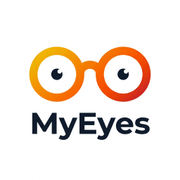
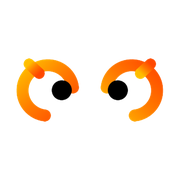
seo: configure comprehensive metadata and JSON-LD structured data for Google Search

Changed region(s): [[0.0833, 0.25, 0.9167, 0.7778]]

diff --git a/public/sw.js b/public/sw.js
@@ -1,1 +1,1 @@
-if(!self.define){let e,s={};const a=(a,c)=>(a=new URL(a+".js",c).href,s[a]||new Promise(s=>{if("document"in self){const e=document.createElement("script");e.src=a,e.onload=s,document.head.appendChild(e)}else e=a,importScripts(a),s()}).then(()=>{let e=s[a];if(!e)throw new Error(`Module ${a} didn’t register its module`);return e}));self.define=(c,i)=>{const n=e||("document"in self?document.currentScript.src:"")||location.href;if(s[n])return;let t={};const r=e=>a(e,n),d={module:{uri:n},exports:t,require:r};s[n]=Promise.all(c.map(e=>d[e]||r(e))).then(e=>(i(...e),t))}}define(["./workbox-3b27f4ee"],function(e){"use strict";importScripts("/worker-34d066ae36cc3cc5.js"),self.skipWaiting(),e.clientsClaim(),e.precacheAndRoute([{url:"/AvatarWearables_TX.png",revision:"cd3b00414a02829ece6f81663f446e57"},{url:"/_next/static/Rap6HnRCZfuItDRzKSg-V/_buildManifest.js",revision:"05f266cd59c5ce23b13585a9d20ca284"},{url:"/_next/static/Rap6HnRCZfuItDRzKSg-V/_ssgManifest.js",revision:"b6652df95db52feb4daf4eca35380933"},{url:"/_next/static/chunks/1027-26d831c4905bab63.js",revision:"26d831c4905bab63"},{url:"/_next/static/chunks/1365-bd25b0698c96e10e.js",revision:"bd25b0698c96e10e"},{url:"/_next/static/chunks/1646.a93085a0445ba909.js",revision:"a93085a0445ba909"},{url:"/_next/static/chunks/1838-75d19c2e1244cc70.js",revision:"75d19c2e1244cc70"},{url:"/_next/static/chunks/2091-22714e09bc195598.js",revision:"22714e09bc195598"},{url:"/_next/static/chunks/2432-278a7180d3c35ff0.js",revision:"278a7180d3c35ff0"},{url:"/_next/static/chunks/2619-04bc32f026a0d946.js",revision:"04bc32f026a0d946"},{url:"/_next/static/chunks/4313-f6cccfb3947ad276.js",revision:"f6cccfb3947ad276"},{url:"/_next/static/chunks/4696-ef7297d57b0f6da4.js",revision:"ef7297d57b0f6da4"},{url:"/_next/static/chunks/4808.c87c9e0913e50ecc.js",revision:"c87c9e0913e50ecc"},{url:"/_next/static/chunks/4833.95900049b1b05343.js",revision:"95900049b1b05343"},{url:"/_next/static/chunks/4bd1b696-100b9d70ed4e49c1.js",revision:"100b9d70ed4e49c1"},{url:"/_next/static/chunks/5-b1a9c4bfceedd1ad.js",revision:"b1a9c4bfceedd1ad"},{url:"/_next/static/chunks/5139.e4ff9cc3669129ed.js",revision:"e4ff9cc3669129ed"},{url:"/_next/static/chunks/5140-0b723661fe257376.js",revision:"0b723661fe257376"},{url:"/_next/static/chunks/5239-617cb46316b9ba93.js",revision:"617cb46316b9ba93"},{url:"/_next/static/chunks/5999-c6ac20a7a7809c2d.js",revision:"c6ac20a7a7809c2d"},{url:"/_next/static/chunks/6116.e398e4a0d339a057.js",revision:"e398e4a0d339a057"},{url:"/_next/static/chunks/6176.8bd055e9bd9fec94.js",revision:"8bd055e9bd9fec94"},{url:"/_next/static/chunks/6849-a8bd9f6c50d6c42c.js",revision:"a8bd9f6c50d6c42c"},{url:"/_next/static/chunks/8116-37377dbe3c3e37f6.js",revision:"37377dbe3c3e37f6"},{url:"/_next/static/chunks/824-01f796ce9ad3bee9.js",revision:"01f796ce9ad3bee9"},{url:"/_next/static/chunks/8348.1d99ab41d9ed5ebe.js",revision:"1d99ab41d9ed5ebe"},{url:"/_next/static/chunks/8801-3ff4afa45b160f8b.js",revision:"3ff4afa45b160f8b"},{url:"/_next/static/chunks/8844-f2d77b416d6218e5.js",revision:"f2d77b416d6218e5"},{url:"/_next/static/chunks/9013.7440926aef03db6a.js",revision:"7440926aef03db6a"},{url:"/_next/static/chunks/9370-5c0beb381e3593c1.js",revision:"5c0beb381e3593c1"},{url:"/_next/static/chunks/app/_not-found/page-801f34a43ce53546.js",revision:"801f34a43ce53546"},{url:"/_next/static/chunks/app/admin/base-prices/page-a05f35f862ee928a.js",revision:"a05f35f862ee928a"},{url:"/_next/static/chunks/app/admin/customers/page-7d4dcf4ebf8a1eef.js",revision:"7d4dcf4ebf8a1eef"},{url:"/_next/static/chunks/app/admin/inventory/page-e58cbc249af1e797.js",revision:"e58cbc249af1e797"},{url:"/_next/static/chunks/app/admin/layout-3e9d9176856b40b8.js",revision:"3e9d9176856b40b8"},{url:"/_next/static/chunks/app/admin/leads/page-2e9eaf0d9d5fcd6d.js",revision:"2e9eaf0d9d5fcd6d"},{url:"/_next/static/chunks/app/admin/lens-pricing/page-68f7b7db59b55133.js",revision:"68f7b7db59b55133"},{url:"/_next/static/chunks/app/admin/loading-31604df608d2b81d.js",revision:"31604df608d2b81d"},{url:"/_next/static/chunks/app/admin/orders/%5Bid%5D/page-93299eaf291bda78.js",revision:"93299eaf291bda78"},{url:"/_next/static/chunks/app/admin/orders/page-dc4b202e12cf11a1.js",revision:"dc4b202e12cf11a1"},{url:"/_next/static/chunks/app/admin/page-6308fac86581786a.js",revision:"6308fac86581786a"},{url:"/_next/static/chunks/app/admin/payments/page-69b2ed26ddfce0dd.js",revision:"69b2ed26ddfce0dd"},{url:"/_next/static/chunks/app/admin/presbyopia-pricing/page-74662637fb0c1949.js",revision:"74662637fb0c1949"},{url:"/_next/static/chunks/app/admin/products/page-03cd61a09516e6e4.js",revision:"03cd61a09516e6e4"},{url:"/_next/static/chunks/app/api/admin/base-prices/route-801f34a43ce53546.js",revision:"801f34a43ce53546"},{url:"/_next/static/chunks/app/api/admin/images/delete/route-801f34a43ce53546.js",revision:"801f34a43ce53546"},{url:"/_next/static/chunks/app/api/admin/lens-prices/route-801f34a43ce53546.js",revision:"801f34a43ce53546"},{url:"/_next/static/chunks/app/api/admin/orders/%5Bid%5D/pdf/route-801f34a43ce53546.js",revision:"801f34a43ce53546"},{url:"/_next/static/chunks/app/api/admin/orders/%5Bid%5D/receipt/route-801f34a43ce53546.js",revision:"801f34a43ce53546"},{url:"/_next/static/chunks/app/api/admin/orders/%5Bid%5D/route-801f34a43ce53546.js",revision:"801f34a43ce53546"},{url:"/_next/static/chunks/app/api/admin/orders/route-801f34a43ce53546.js",revision:"801f34a43ce53546"},{url:"/_next/static/chunks/app/api/admin/payments/route-801f34a43ce53546.js",revision:"801f34a43ce53546"},{url:"/_next/static/chunks/app/api/admin/payments/verify/route-801f34a43ce53546.js",revision:"801f34a43ce53546"},{url:"/_next/static/chunks/app/api/admin/presbyopia-prices/route-801f34a43ce53546.js",revision:"801f34a43ce53546"},{url:"/_next/static/chunks/app/api/admin/products/%5Bid%5D/route-801f34a43ce53546.js",revision:"801f34a43ce53546"},{url:"/_next/static/chunks/app/api/admin/products/route-801f34a43ce53546.js",revision:"801f34a43ce53546"},{url:"/_next/static/chunks/app/api/base-prices/route-801f34a43ce53546.js",revision:"801f34a43ce53546"},{url:"/_next/static/chunks/app/api/checkout/route-801f34a43ce53546.js",revision:"801f34a43ce53546"},{url:"/_next/static/chunks/app/api/leads/route-801f34a43ce53546.js",revision:"801f34a43ce53546"},{url:"/_next/static/chunks/app/api/orders/%5Bid%5D/resubmit-proof/route-801f34a43ce53546.js",revision:"801f34a43ce53546"},{url:"/_next/static/chunks/app/api/orders/%5Bid%5D/route-801f34a43ce53546.js",revision:"801f34a43ce53546"},{url:"/_next/static/chunks/app/api/orders/route-801f34a43ce53546.js",revision:"801f34a43ce53546"},{url:"/_next/static/chunks/app/api/payments/check-tid/route-801f34a43ce53546.js",revision:"801f34a43ce53546"},{url:"/_next/static/chunks/app/api/payments/ocr-scan/route-801f34a43ce53546.js",revision:"801f34a43ce53546"},{url:"/_next/static/chunks/app/api/quiz/results/route-801f34a43ce53546.js",revision:"801f34a43ce53546"},{url:"/_next/static/chunks/app/api/upload/route-801f34a43ce53546.js",revision:"801f34a43ce53546"},{url:"/_next/static/chunks/app/checkout/loading-31604df608d2b81d.js",revision:"31604df608d2b81d"},{url:"/_next/static/chunks/app/checkout/page-a88a70b0990a8552.js",revision:"a88a70b0990a8552"},{url:"/_next/static/chunks/app/checkout/success/page-30a2f51da7de122f.js",revision:"30a2f51da7de122f"},{url:"/_next/static/chunks/app/collections/loading-31604df608d2b81d.js",revision:"31604df608d2b81d"},{url:"/_next/static/chunks/app/collections/page-8c195b94282ebc94.js",revision:"8c195b94282ebc94"},{url:"/_next/static/chunks/app/error-6c19ba7dafbc287d.js",revision:"6c19ba7dafbc287d"},{url:"/_next/static/chunks/app/eyeglasses/%5Bslug%5D/loading-31604df608d2b81d.js",revision:"31604df608d2b81d"},{url:"/_next/static/chunks/app/eyeglasses/%5Bslug%5D/page-038351b4d18a8b58.js",revision:"038351b4d18a8b58"},{url:"/_next/static/chunks/app/eyeglasses/loading-31604df608d2b81d.js",revision:"31604df608d2b81d"},{url:"/_next/static/chunks/app/eyeglasses/page-0c8f788eef78e5d7.js",revision:"0c8f788eef78e5d7"},{url:"/_next/static/chunks/app/kids/loading-31604df608d2b81d.js",revision:"31604df608d2b81d"},{url:"/_next/static/chunks/app/kids/page-d8695384fd812a56.js",revision:"d8695384fd812a56"},{url:"/_next/static/chunks/app/layout-df1a56a343365118.js",revision:"df1a56a343365118"},{url:"/_next/static/chunks/app/lens-pricing/page-08993e8e91f68d4a.js",revision:"08993e8e91f68d4a"},{url:"/_next/static/chunks/app/loading-31604df608d2b81d.js",revision:"31604df608d2b81d"},{url:"/_next/static/chunks/app/men/loading-31604df608d2b81d.js",revision:"31604df608d2b81d"},{url:"/_next/static/chunks/app/men/page-7b62d886ffc76800.js",revision:"7b62d886ffc76800"},{url:"/_next/static/chunks/app/not-found-6308fac86581786a.js",revision:"6308fac86581786a"},{url:"/_next/static/chunks/app/order-success/%5BorderNumber%5D/page-e416535ba0bdcc07.js",revision:"e416535ba0bdcc07"},{url:"/_next/static/chunks/app/orders/%5BorderNumber%5D/page-e416535ba0bdcc07.js",revision:"e416535ba0bdcc07"},{url:"/_next/static/chunks/app/page-c8a0b9d431135da6.js",revision:"c8a0b9d431135da6"},{url:"/_next/static/chunks/app/pricing/page-7bf5191abeffeee5.js",revision:"7bf5191abeffeee5"},{url:"/_next/static/chunks/app/privacy/page-6308fac86581786a.js",revision:"6308fac86581786a"},{url:"/_next/static/chunks/app/products/%5Bslug%5D/loading-31604df608d2b81d.js",revision:"31604df608d2b81d"},{url:"/_next/static/chunks/app/products/%5Bslug%5D/page-42a4b34c7c36d767.js",revision:"42a4b34c7c36d767"},{url:"/_next/static/chunks/app/products/page-801f34a43ce53546.js",revision:"801f34a43ce53546"},{url:"/_next/static/chunks/app/quiz/layout-801f34a43ce53546.js",revision:"801f34a43ce53546"},{url:"/_next/static/chunks/app/quiz/loading-31604df608d2b81d.js",revision:"31604df608d2b81d"},{url:"/_next/static/chunks/app/quiz/page-8e16432e73b37ba5.js",revision:"8e16432e73b37ba5"},{url:"/_next/static/chunks/app/quiz/results/page-2089bbaf45da5adb.js",revision:"2089bbaf45da5adb"},{url:"/_next/static/chunks/app/sunglasses/loading-31604df608d2b81d.js",revision:"31604df608d2b81d"},{url:"/_next/static/chunks/app/sunglasses/page-1fbfcf24c418495b.js",revision:"1fbfcf24c418495b"},{url:"/_next/static/chunks/app/terms/page-6308fac86581786a.js",revision:"6308fac86581786a"},{url:"/_next/static/chunks/app/women/loading-31604df608d2b81d.js",revision:"31604df608d2b81d"},{url:"/_next/static/chunks/app/women/page-6d4deb8c31b42937.js",revision:"6d4deb8c31b42937"},{url:"/_next/static/chunks/b536a0f1.c15d413a248f1670.js",revision:"c15d413a248f1670"},{url:"/_next/static/chunks/b79b7286.517d941058d86c1b.js",revision:"517d941058d86c1b"},{url:"/_next/static/chunks/bd904a5c.04a04e0204c374ff.js",revision:"04a04e0204c374ff"},{url:"/_next/static/chunks/framework-a32a2a465584c0bc.js",revision:"a32a2a465584c0bc"},{url:"/_next/static/chunks/main-app-03e1e49d6826bd7d.js",revision:"03e1e49d6826bd7d"},{url:"/_next/static/chunks/main-dc7bdda68cf744cc.js",revision:"dc7bdda68cf744cc"},{url:"/_next/static/chunks/pages/_app-e8b861c87f6f033c.js",revision:"e8b861c87f6f033c"},{url:"/_next/static/chunks/pages/_error-c8f84f7bd11d43d4.js",revision:"c8f84f7bd11d43d4"},{url:"/_next/static/chunks/polyfills-42372ed130431b0a.js",revision:"846118c33b2c0e922d7b3a7676f81f6f"},{url:"/_next/static/chunks/webpack-911289ff84448f59.js",revision:"911289ff84448f59"},{url:"/_next/static/css/081a0afca5a9bd20.css",revision:"081a0afca5a9bd20"},{url:"/_next/static/css/9f43c719b60b0fd2.css",revision:"9f43c719b60b0fd2"},{url:"/_next/static/media/19cfc7226ec3afaa-s.woff2",revision:"9dda5cfc9a46f256d0e131bb535e46f8"},{url:"/_next/static/media/21350d82a1f187e9-s.woff2",revision:"4e2553027f1d60eff32898367dd4d541"},{url:"/_next/static/media/8e9860b6e62d6359-s.woff2",revision:"01ba6c2a184b8cba08b0d57167664d75"},{url:"/_next/static/media/ba9851c3c22cd980-s.woff2",revision:"9e494903d6b0ffec1a1e14d34427d44d"},{url:"/_next/static/media/c5fe6dc8356a8c31-s.woff2",revision:"027a89e9ab733a145db70f09b8a18b42"},{url:"/_next/static/media/df0a9ae256c0569c-s.woff2",revision:"d54db44de5ccb18886ece2fda72bdfe0"},{url:"/_next/static/media/e4af272ccee01ff0-s.p.woff2",revision:"65850a373e258f1c897a2b3d75eb74de"},{url:"/apple-touch-icon.png",revision:"f68fd163a4b465606bf358accbf4aff7"},{url:"/bank-qr.jpg",revision:"d914c9afae3ced2fd17489462e0572e7"},{url:"/file.svg",revision:"d09f95206c3fa0bb9bd9fefabfd0ea71"},{url:"/globe.svg",revision:"2aaafa6a49b6563925fe440891e32717"},{url:"/images/logo.png",revision:"ac261b052e72bfc66ce6f5779f759c90"},{url:"/images/logo.svg",revision:"ae96372307dc6d4b2106b8742a678d59"},{url:"/jazzcash-qr.jpg",revision:"f6d2dc221eea9a17c9a9a3bcb6ba9230"},{url:"/logo.png",revision:"ac261b052e72bfc66ce6f5779f759c90"},{url:"/logo.svg",revision:"ae96372307dc6d4b2106b8742a678d59"},{url:"/manifest.json",revision:"b4f1b3f3372a82fdd057803771b0c62c"},{url:"/models/eyewear.glb",revision:"c7e5ef3f109f26754f2244f37835ef14"},{url:"/myeyes.apk",revision:"4ff586118d1e85684e81c8f0fdbac40b"},{url:"/next.svg",revision:"8e061864f388b47f33a1c3780831193e"},{url:"/placeholder-frame.png",revision:"4a3caea04dd513ef78cf750d6ff324bc"},{url:"/pwa-192x192.png",revision:"f7ed7bfaacbd66bff801d32237379db2"},{url:"/pwa-512x512.png",revision:"60cc0599571ff95b98108c55790975d0"},{url:"/vercel.svg",revision:"c0af2f507b369b085b35ef4bbe3bcf1e"},{url:"/window.svg",revision:"a2760511c65806022ad20adf74370ff3"},{url:"/worker-34d066ae36cc3cc5.js",revision:"a191690dd42983320342803c74f51747"}],{ignoreURLParametersMatching:[/^utm_/,/^fbclid$/]}),e.cleanupOutdatedCaches(),e.registerRoute("/",new e.NetworkFirst({cacheName:"start-url",plugins:[{cacheWillUpdate:async({response:e})=>e&&"opaqueredirect"===e.type?new Response(e.body,{status:200,statusText:"OK",headers:e.headers}):e}]}),"GET"),e.registerRoute(/^\/api\/.*/,new e.NetworkOnly,"GET"),e.registerRoute(/^https:\/\/res\.cloudinary\.com\/.*/,new e.StaleWhileRevalidate({cacheName:"myeyes-cloudinary-images",plugins:[new e.ExpirationPlugin({maxEntries:200,maxAgeSeconds:604800}),new e.CacheableResponsePlugin({statuses:[0,200]})]}),"GET")});
+if(!self.define){let e,s={};const a=(a,c)=>(a=new URL(a+".js",c).href,s[a]||new Promise(s=>{if("document"in self){const e=document.createElement("script");e.src=a,e.onload=s,document.head.appendChild(e)}else e=a,importScripts(a),s()}).then(()=>{let e=s[a];if(!e)throw new Error(`Module ${a} didn’t register its module`);return e}));self.define=(c,i)=>{const n=e||("document"in self?document.currentScript.src:"")||location.href;if(s[n])return;let t={};const r=e=>a(e,n),d={module:{uri:n},exports:t,require:r};s[n]=Promise.all(c.map(e=>d[e]||r(e))).then(e=>(i(...e),t))}}define(["./workbox-3b27f4ee"],function(e){"use strict";importScripts("/worker-34d066ae36cc3cc5.js"),self.skipWaiting(),e.clientsClaim(),e.precacheAndRoute([{url:"/AvatarWearables_TX.png",revision:"cd3b00414a02829ece6f81663f446e57"},{url:"/_next/static/chunks/1027-26d831c4905bab63.js",revision:"26d831c4905bab63"},{url:"/_next/static/chunks/1365-bd25b0698c96e10e.js",revision:"bd25b0698c96e10e"},{url:"/_next/static/chunks/1646.a93085a0445ba909.js",revision:"a93085a0445ba909"},{url:"/_next/static/chunks/1838-75d19c2e1244cc70.js",revision:"75d19c2e1244cc70"},{url:"/_next/static/chunks/2091-22714e09bc195598.js",revision:"22714e09bc195598"},{url:"/_next/static/chunks/2432-278a7180d3c35ff0.js",revision:"278a7180d3c35ff0"},{url:"/_next/static/chunks/2619-04bc32f026a0d946.js",revision:"04bc32f026a0d946"},{url:"/_next/static/chunks/4313-f6cccfb3947ad276.js",revision:"f6cccfb3947ad276"},{url:"/_next/static/chunks/4696-ef7297d57b0f6da4.js",revision:"ef7297d57b0f6da4"},{url:"/_next/static/chunks/4808.c87c9e0913e50ecc.js",revision:"c87c9e0913e50ecc"},{url:"/_next/static/chunks/4833.95900049b1b05343.js",revision:"95900049b1b05343"},{url:"/_next/static/chunks/4bd1b696-100b9d70ed4e49c1.js",revision:"100b9d70ed4e49c1"},{url:"/_next/static/chunks/5-b1a9c4bfceedd1ad.js",revision:"b1a9c4bfceedd1ad"},{url:"/_next/static/chunks/5139.e4ff9cc3669129ed.js",revision:"e4ff9cc3669129ed"},{url:"/_next/static/chunks/5140-0b723661fe257376.js",revision:"0b723661fe257376"},{url:"/_next/static/chunks/5239-617cb46316b9ba93.js",revision:"617cb46316b9ba93"},{url:"/_next/static/chunks/5999-c6ac20a7a7809c2d.js",revision:"c6ac20a7a7809c2d"},{url:"/_next/static/chunks/6116.e398e4a0d339a057.js",revision:"e398e4a0d339a057"},{url:"/_next/static/chunks/6176.8bd055e9bd9fec94.js",revision:"8bd055e9bd9fec94"},{url:"/_next/static/chunks/6849-a8bd9f6c50d6c42c.js",revision:"a8bd9f6c50d6c42c"},{url:"/_next/static/chunks/8116-37377dbe3c3e37f6.js",revision:"37377dbe3c3e37f6"},{url:"/_next/static/chunks/824-01f796ce9ad3bee9.js",revision:"01f796ce9ad3bee9"},{url:"/_next/static/chunks/8348.1d99ab41d9ed5ebe.js",revision:"1d99ab41d9ed5ebe"},{url:"/_next/static/chunks/8801-3ff4afa45b160f8b.js",revision:"3ff4afa45b160f8b"},{url:"/_next/static/chunks/8844-f2d77b416d6218e5.js",revision:"f2d77b416d6218e5"},{url:"/_next/static/chunks/9013.7440926aef03db6a.js",revision:"7440926aef03db6a"},{url:"/_next/static/chunks/9370-5c0beb381e3593c1.js",revision:"5c0beb381e3593c1"},{url:"/_next/static/chunks/app/_not-found/page-801f34a43ce53546.js",revision:"801f34a43ce53546"},{url:"/_next/static/chunks/app/admin/base-prices/page-a05f35f862ee928a.js",revision:"a05f35f862ee928a"},{url:"/_next/static/chunks/app/admin/customers/page-7d4dcf4ebf8a1eef.js",revision:"7d4dcf4ebf8a1eef"},{url:"/_next/static/chunks/app/admin/inventory/page-e58cbc249af1e797.js",revision:"e58cbc249af1e797"},{url:"/_next/static/chunks/app/admin/layout-3e9d9176856b40b8.js",revision:"3e9d9176856b40b8"},{url:"/_next/static/chunks/app/admin/leads/page-2e9eaf0d9d5fcd6d.js",revision:"2e9eaf0d9d5fcd6d"},{url:"/_next/static/chunks/app/admin/lens-pricing/page-68f7b7db59b55133.js",revision:"68f7b7db59b55133"},{url:"/_next/static/chunks/app/admin/loading-31604df608d2b81d.js",revision:"31604df608d2b81d"},{url:"/_next/static/chunks/app/admin/orders/%5Bid%5D/page-93299eaf291bda78.js",revision:"93299eaf291bda78"},{url:"/_next/static/chunks/app/admin/orders/page-dc4b202e12cf11a1.js",revision:"dc4b202e12cf11a1"},{url:"/_next/static/chunks/app/admin/page-6308fac86581786a.js",revision:"6308fac86581786a"},{url:"/_next/static/chunks/app/admin/payments/page-69b2ed26ddfce0dd.js",revision:"69b2ed26ddfce0dd"},{url:"/_next/static/chunks/app/admin/presbyopia-pricing/page-74662637fb0c1949.js",revision:"74662637fb0c1949"},{url:"/_next/static/chunks/app/admin/products/page-03cd61a09516e6e4.js",revision:"03cd61a09516e6e4"},{url:"/_next/static/chunks/app/api/admin/base-prices/route-801f34a43ce53546.js",revision:"801f34a43ce53546"},{url:"/_next/static/chunks/app/api/admin/images/delete/route-801f34a43ce53546.js",revision:"801f34a43ce53546"},{url:"/_next/static/chunks/app/api/admin/lens-prices/route-801f34a43ce53546.js",revision:"801f34a43ce53546"},{url:"/_next/static/chunks/app/api/admin/orders/%5Bid%5D/pdf/route-801f34a43ce53546.js",revision:"801f34a43ce53546"},{url:"/_next/static/chunks/app/api/admin/orders/%5Bid%5D/receipt/route-801f34a43ce53546.js",revision:"801f34a43ce53546"},{url:"/_next/static/chunks/app/api/admin/orders/%5Bid%5D/route-801f34a43ce53546.js",revision:"801f34a43ce53546"},{url:"/_next/static/chunks/app/api/admin/orders/route-801f34a43ce53546.js",revision:"801f34a43ce53546"},{url:"/_next/static/chunks/app/api/admin/payments/route-801f34a43ce53546.js",revision:"801f34a43ce53546"},{url:"/_next/static/chunks/app/api/admin/payments/verify/route-801f34a43ce53546.js",revision:"801f34a43ce53546"},{url:"/_next/static/chunks/app/api/admin/presbyopia-prices/route-801f34a43ce53546.js",revision:"801f34a43ce53546"},{url:"/_next/static/chunks/app/api/admin/products/%5Bid%5D/route-801f34a43ce53546.js",revision:"801f34a43ce53546"},{url:"/_next/static/chunks/app/api/admin/products/route-801f34a43ce53546.js",revision:"801f34a43ce53546"},{url:"/_next/static/chunks/app/api/base-prices/route-801f34a43ce53546.js",revision:"801f34a43ce53546"},{url:"/_next/static/chunks/app/api/checkout/route-801f34a43ce53546.js",revision:"801f34a43ce53546"},{url:"/_next/static/chunks/app/api/leads/route-801f34a43ce53546.js",revision:"801f34a43ce53546"},{url:"/_next/static/chunks/app/api/orders/%5Bid%5D/resubmit-proof/route-801f34a43ce53546.js",revision:"801f34a43ce53546"},{url:"/_next/static/chunks/app/api/orders/%5Bid%5D/route-801f34a43ce53546.js",revision:"801f34a43ce53546"},{url:"/_next/static/chunks/app/api/orders/route-801f34a43ce53546.js",revision:"801f34a43ce53546"},{url:"/_next/static/chunks/app/api/payments/check-tid/route-801f34a43ce53546.js",revision:"801f34a43ce53546"},{url:"/_next/static/chunks/app/api/payments/ocr-scan/route-801f34a43ce53546.js",revision:"801f34a43ce53546"},{url:"/_next/static/chunks/app/api/quiz/results/route-801f34a43ce53546.js",revision:"801f34a43ce53546"},{url:"/_next/static/chunks/app/api/upload/route-801f34a43ce53546.js",revision:"801f34a43ce53546"},{url:"/_next/static/chunks/app/checkout/loading-31604df608d2b81d.js",revision:"31604df608d2b81d"},{url:"/_next/static/chunks/app/checkout/page-a88a70b0990a8552.js",revision:"a88a70b0990a8552"},{url:"/_next/static/chunks/app/checkout/success/page-30a2f51da7de122f.js",revision:"30a2f51da7de122f"},{url:"/_next/static/chunks/app/collections/loading-31604df608d2b81d.js",revision:"31604df608d2b81d"},{url:"/_next/static/chunks/app/collections/page-8c195b94282ebc94.js",revision:"8c195b94282ebc94"},{url:"/_next/static/chunks/app/error-6c19ba7dafbc287d.js",revision:"6c19ba7dafbc287d"},{url:"/_next/static/chunks/app/eyeglasses/%5Bslug%5D/loading-31604df608d2b81d.js",revision:"31604df608d2b81d"},{url:"/_next/static/chunks/app/eyeglasses/%5Bslug%5D/page-038351b4d18a8b58.js",revision:"038351b4d18a8b58"},{url:"/_next/static/chunks/app/eyeglasses/loading-31604df608d2b81d.js",revision:"31604df608d2b81d"},{url:"/_next/static/chunks/app/eyeglasses/page-0c8f788eef78e5d7.js",revision:"0c8f788eef78e5d7"},{url:"/_next/static/chunks/app/kids/loading-31604df608d2b81d.js",revision:"31604df608d2b81d"},{url:"/_next/static/chunks/app/kids/page-d8695384fd812a56.js",revision:"d8695384fd812a56"},{url:"/_next/static/chunks/app/layout-df1a56a343365118.js",revision:"df1a56a343365118"},{url:"/_next/static/chunks/app/lens-pricing/page-08993e8e91f68d4a.js",revision:"08993e8e91f68d4a"},{url:"/_next/static/chunks/app/loading-31604df608d2b81d.js",revision:"31604df608d2b81d"},{url:"/_next/static/chunks/app/men/loading-31604df608d2b81d.js",revision:"31604df608d2b81d"},{url:"/_next/static/chunks/app/men/page-7b62d886ffc76800.js",revision:"7b62d886ffc76800"},{url:"/_next/static/chunks/app/not-found-6308fac86581786a.js",revision:"6308fac86581786a"},{url:"/_next/static/chunks/app/order-success/%5BorderNumber%5D/page-e416535ba0bdcc07.js",revision:"e416535ba0bdcc07"},{url:"/_next/static/chunks/app/orders/%5BorderNumber%5D/page-e416535ba0bdcc07.js",revision:"e416535ba0bdcc07"},{url:"/_next/static/chunks/app/page-c8a0b9d431135da6.js",revision:"c8a0b9d431135da6"},{url:"/_next/static/chunks/app/pricing/page-7bf5191abeffeee5.js",revision:"7bf5191abeffeee5"},{url:"/_next/static/chunks/app/privacy/page-6308fac86581786a.js",revision:"6308fac86581786a"},{url:"/_next/static/chunks/app/products/%5Bslug%5D/loading-31604df608d2b81d.js",revision:"31604df608d2b81d"},{url:"/_next/static/chunks/app/products/%5Bslug%5D/page-42a4b34c7c36d767.js",revision:"42a4b34c7c36d767"},{url:"/_next/static/chunks/app/products/page-801f34a43ce53546.js",revision:"801f34a43ce53546"},{url:"/_next/static/chunks/app/quiz/layout-801f34a43ce53546.js",revision:"801f34a43ce53546"},{url:"/_next/static/chunks/app/quiz/loading-31604df608d2b81d.js",revision:"31604df608d2b81d"},{url:"/_next/static/chunks/app/quiz/page-8e16432e73b37ba5.js",revision:"8e16432e73b37ba5"},{url:"/_next/static/chunks/app/quiz/results/page-2089bbaf45da5adb.js",revision:"2089bbaf45da5adb"},{url:"/_next/static/chunks/app/sunglasses/loading-31604df608d2b81d.js",revision:"31604df608d2b81d"},{url:"/_next/static/chunks/app/sunglasses/page-1fbfcf24c418495b.js",revision:"1fbfcf24c418495b"},{url:"/_next/static/chunks/app/terms/page-6308fac86581786a.js",revision:"6308fac86581786a"},{url:"/_next/static/chunks/app/women/loading-31604df608d2b81d.js",revision:"31604df608d2b81d"},{url:"/_next/static/chunks/app/women/page-6d4deb8c31b42937.js",revision:"6d4deb8c31b42937"},{url:"/_next/static/chunks/b536a0f1.c15d413a248f1670.js",revision:"c15d413a248f1670"},{url:"/_next/static/chunks/b79b7286.517d941058d86c1b.js",revision:"517d941058d86c1b"},{url:"/_next/static/chunks/bd904a5c.04a04e0204c374ff.js",revision:"04a04e0204c374ff"},{url:"/_next/static/chunks/framework-a32a2a465584c0bc.js",revision:"a32a2a465584c0bc"},{url:"/_next/static/chunks/main-app-03e1e49d6826bd7d.js",revision:"03e1e49d6826bd7d"},{url:"/_next/static/chunks/main-dc7bdda68cf744cc.js",revision:"dc7bdda68cf744cc"},{url:"/_next/static/chunks/pages/_app-e8b861c87f6f033c.js",revision:"e8b861c87f6f033c"},{url:"/_next/static/chunks/pages/_error-c8f84f7bd11d43d4.js",revision:"c8f84f7bd11d43d4"},{url:"/_next/static/chunks/polyfills-42372ed130431b0a.js",revision:"846118c33b2c0e922d7b3a7676f81f6f"},{url:"/_next/static/chunks/webpack-911289ff84448f59.js",revision:"911289ff84448f59"},{url:"/_next/static/css/081a0afca5a9bd20.css",revision:"081a0afca5a9bd20"},{url:"/_next/static/css/9f43c719b60b0fd2.css",revision:"9f43c719b60b0fd2"},{url:"/_next/static/hl1rf5Q9aPNMpoPqUYJrc/_buildManifest.js",revision:"05f266cd59c5ce23b13585a9d20ca284"},{url:"/_next/static/hl1rf5Q9aPNMpoPqUYJrc/_ssgManifest.js",revision:"b6652df95db52feb4daf4eca35380933"},{url:"/_next/static/media/19cfc7226ec3afaa-s.woff2",revision:"9dda5cfc9a46f256d0e131bb535e46f8"},{url:"/_next/static/media/21350d82a1f187e9-s.woff2",revision:"4e2553027f1d60eff32898367dd4d541"},{url:"/_next/static/media/8e9860b6e62d6359-s.woff2",revision:"01ba6c2a184b8cba08b0d57167664d75"},{url:"/_next/static/media/ba9851c3c22cd980-s.woff2",revision:"9e494903d6b0ffec1a1e14d34427d44d"},{url:"/_next/static/media/c5fe6dc8356a8c31-s.woff2",revision:"027a89e9ab733a145db70f09b8a18b42"},{url:"/_next/static/media/df0a9ae256c0569c-s.woff2",revision:"d54db44de5ccb18886ece2fda72bdfe0"},{url:"/_next/static/media/e4af272ccee01ff0-s.p.woff2",revision:"65850a373e258f1c897a2b3d75eb74de"},{url:"/apple-touch-icon.png",revision:"3611b043a711fcb09d8601bea9751272"},{url:"/bank-qr.jpg",revision:"d914c9afae3ced2fd17489462e0572e7"},{url:"/favicon.ico",revision:"1812b68430d6dbb18e9c4bde27b075cf"},{url:"/file.svg",revision:"d09f95206c3fa0bb9bd9fefabfd0ea71"},{url:"/globe.svg",revision:"2aaafa6a49b6563925fe440891e32717"},{url:"/icon-192x192.png",revision:"c5e7641cff420e9b5d65adc4557a3360"},{url:"/icon-48x48.png",revision:"59f50161535f391f680320119329226b"},{url:"/icon-96x96.png",revision:"52f4db302d03bca64ae391fdc221e6e2"},{url:"/images/logo.png",revision:"ac261b052e72bfc66ce6f5779f759c90"},{url:"/images/logo.svg",revision:"ae96372307dc6d4b2106b8742a678d59"},{url:"/jazzcash-qr.jpg",revision:"f6d2dc221eea9a17c9a9a3bcb6ba9230"},{url:"/logo.png",revision:"ac261b052e72bfc66ce6f5779f759c90"},{url:"/logo.svg",revision:"ae96372307dc6d4b2106b8742a678d59"},{url:"/manifest.json",revision:"b4f1b3f3372a82fdd057803771b0c62c"},{url:"/models/eyewear.glb",revision:"c7e5ef3f109f26754f2244f37835ef14"},{url:"/myeyes.apk",revision:"4ff586118d1e85684e81c8f0fdbac40b"},{url:"/next.svg",revision:"8e061864f388b47f33a1c3780831193e"},{url:"/placeholder-frame.png",revision:"4a3caea04dd513ef78cf750d6ff324bc"},{url:"/pwa-192x192.png",revision:"c5e7641cff420e9b5d65adc4557a3360"},{url:"/pwa-512x512.png",revision:"4550822b769e5bc18e7382c79f7388f5"},{url:"/vercel.svg",revision:"c0af2f507b369b085b35ef4bbe3bcf1e"},{url:"/window.svg",revision:"a2760511c65806022ad20adf74370ff3"},{url:"/worker-34d066ae36cc3cc5.js",revision:"a191690dd42983320342803c74f51747"}],{ignoreURLParametersMatching:[/^utm_/,/^fbclid$/]}),e.cleanupOutdatedCaches(),e.registerRoute("/",new e.NetworkFirst({cacheName:"start-url",plugins:[{cacheWillUpdate:async({response:e})=>e&&"opaqueredirect"===e.type?new Response(e.body,{status:200,statusText:"OK",headers:e.headers}):e}]}),"GET"),e.registerRoute(/^\/api\/.*/,new e.NetworkOnly,"GET"),e.registerRoute(/^https:\/\/res\.cloudinary\.com\/.*/,new e.StaleWhileRevalidate({cacheName:"myeyes-cloudinary-images",plugins:[new e.ExpirationPlugin({maxEntries:200,maxAgeSeconds:604800}),new e.CacheableResponsePlugin({statuses:[0,200]})]}),"GET")});

diff --git a/src/app/layout.tsx b/src/app/layout.tsx
@@ -26,37 +26,95 @@ export const viewport: Viewport = {
 };
 
 export const metadata: Metadata = {
-  title: "My Eyes — Pakistan Prescription Based Eyewear Store",
+  metadataBase: new URL("https://www.myeyes.pk"),
+  title: {
+    default: "My Eyes — Pakistan's First Prescription Based Eyewear Store",
+    template: "%s | My Eyes Optical Studio",
+  },
   description:
-    "Order premium prescription eyeglasses & sunglasses online. Pakistan prescription based eyewear store with lab-precision fitting, delivering all across Pakistan.",
-  keywords: ["eyewear", "glasses", "optical", "sunglasses", "prescription lenses", "Pakistan", "online eyewear store", "My Eyes"],
-  // ---------------------------------------------------------------------------
-  // PWA Manifest & Icons
-  // ---------------------------------------------------------------------------
+    "Lab-precision prescription eyeglasses and sunglasses with custom SPH, CYL, and PD fitting delivered anywhere in Pakistan. Features live 3D try-on, 60-second style quiz, and transparent lens pricing.",
+  keywords: [
+    "eyewear Pakistan",
+    "prescription glasses online Pakistan",
+    "blue cut computer lenses",
+    "progressive lenses Pakistan",
+    "online optical store",
+    "frame style quiz",
+    "custom prescription sunglasses",
+  ],
+  alternates: {
+    canonical: "https://www.myeyes.pk",
+  },
   manifest: "/manifest.json",
   icons: {
-    icon: "/logo.svg",
+    icon: [
+      { url: "/icon-48x48.png", sizes: "48x48", type: "image/png" },
+      { url: "/icon-96x96.png", sizes: "96x96", type: "image/png" },
+      { url: "/icon-192x192.png", sizes: "192x192", type: "image/png" },
+      { url: "/favicon.ico", sizes: "any" },
+    ],
+    shortcut: "/icon-48x48.png",
     apple: "/apple-touch-icon.png",
   },
-  // ---------------------------------------------------------------------------
-  // iOS PWA meta — enables Add to Home Screen with correct name and icon
-  // ---------------------------------------------------------------------------
   appleWebApp: {
     capable: true,
     statusBarStyle: "default",
     title: "MyEyes",
   },
-  // ---------------------------------------------------------------------------
-  // Open Graph — useful for PWA sharing
-  // ---------------------------------------------------------------------------
   openGraph: {
     title: "My Eyes — Pakistan Prescription Based Eyewear Store",
-    description:
-      "Order premium prescription eyeglasses & sunglasses online in Pakistan.",
+    description: "Lab-precision prescription glasses & sunglasses delivered across Pakistan.",
+    url: "https://www.myeyes.pk",
+    siteName: "My Eyes",
     type: "website",
     locale: "en_US",
-    siteName: "MyEyes",
+    images: [
+      {
+        url: "/icon-192x192.png",
+        width: 192,
+        height: 192,
+        alt: "My Eyes Optical Studio Logo",
+      },
+    ],
   },
+};
+
+const jsonLd = {
+  "@context": "https://schema.org",
+  "@graph": [
+    {
+      "@type": "OpticalStore",
+      "@id": "https://www.myeyes.pk/#store",
+      name: "My Eyes Optical Studio",
+      url: "https://www.myeyes.pk",
+      logo: "https://www.myeyes.pk/icon-192x192.png",
+      image: "https://www.myeyes.pk/icon-192x192.png",
+      description:
+        "Custom prescription lenses, frames, and sunglasses fitted to precision optical parameters.",
+      areaServed: "PK",
+      priceRange: "PKR",
+      potentialAction: {
+        "@type": "SearchAction",
+        target: "https://www.myeyes.pk/eyeglasses?q={search_term_string}",
+        "query-input": "required name=search_term_string",
+      },
+    },
+    {
+      "@type": "SiteNavigationElement",
+      name: [
+        "Prescription Eyeglasses",
+        "Polarized Sunglasses",
+        "Lens Pricing Guide",
+        "60-Second Frame Style Quiz",
+      ],
+      url: [
+        "https://www.myeyes.pk/eyeglasses",
+        "https://www.myeyes.pk/sunglasses",
+        "https://www.myeyes.pk/pricing",
+        "https://www.myeyes.pk/quiz",
+      ],
+    },
+  ],
 };
 
 export default function RootLayout({
@@ -67,6 +125,12 @@ export default function RootLayout({
   return (
     <html lang="en">
       <head>
+        <script
+          type="application/ld+json"
+          dangerouslySetInnerHTML={{
+            __html: JSON.stringify(jsonLd),
+          }}
+        />
         <script
           dangerouslySetInnerHTML={{
             __html: `

diff --git a/scripts/generate_icons.py b/scripts/generate_icons.py
@@ -1,0 +1,85 @@
+import os
+from PIL import Image, ImageOps
+
+def generate_brand_icons():
+    public_dir = os.path.join(os.path.dirname(__file__), "..", "public")
+    logo_path = os.path.join(public_dir, "logo.png")
+    
+    if not os.path.exists(logo_path):
+        print(f"Error: {logo_path} not found")
+        return
+
+    # Load transparent logo
+    logo_img = Image.open(logo_path).convert("RGBA")
+    bbox = logo_img.getbbox()
+    if bbox:
+        logo_cropped = logo_img.crop(bbox)
+    else:
+        logo_cropped = logo_img
+
+    # Create master square 512x512 with transparent/white background and centered logo
+    master_size = 512
+    master_img = Image.new("RGBA", (master_size, master_size), (255, 255, 255, 0))
+    
+    # Calculate aspect ratio fitting with 12% padding for Google Search / PWA icon compliance
+    target_max_dim = int(master_size * 0.82)
+    w, h = logo_cropped.size
+    scale = min(target_max_dim / w, target_max_dim / h)
+    new_w = int(w * scale)
+    new_h = int(h * scale)
+    
+    logo_resized = logo_cropped.resize((new_w, new_h), Image.Resampling.LANCZOS)
+    
+    # Paste centered
+    offset_x = (master_size - new_w) // 2
+    offset_y = (master_size - new_h) // 2
+    master_img.paste(logo_resized, (offset_x, offset_y), logo_resized)
+    
+    # Also create a crisp white background version if needed for apple-touch-icon / rich snippets
+    # Google guidelines allow both transparent or solid white. Solid white is cleanest across all dark/light Google Search results.
+    # Let's generate both transparent icon versions and solid white versions as appropriate.
+    
+    # Target sizes:
+    # 1. icon-48x48.png
+    # 2. icon-96x96.png
+    # 3. icon-192x192.png
+    # 4. pwa-192x192.png
+    # 5. pwa-512x512.png
+    # 6. apple-touch-icon.png (180x180)
+    # 7. favicon.ico (16, 32, 48, 64)
+    
+    sizes = {
+        "icon-48x48.png": 48,
+        "icon-96x96.png": 96,
+        "icon-192x192.png": 192,
+        "pwa-192x192.png": 192,
+        "pwa-512x512.png": 512,
+    }
+    
+    for filename, size in sizes.items():
+        out_img = master_img.resize((size, size), Image.Resampling.LANCZOS)
+        out_path = os.path.join(public_dir, filename)
+        out_img.save(out_path, format="PNG", optimize=True)
+        print(f"Generated {filename} ({size}x{size})")
+
+    # Apple Touch Icon: 180x180 with solid crisp white background for iOS home screen
+    apple_img = Image.new("RGBA", (180, 180), (255, 255, 255, 255))
+    apple_content = master_img.resize((180, 180), Image.Resampling.LANCZOS)
+    apple_img.paste(apple_content, (0, 0), apple_content)
+    apple_img.convert("RGB").save(os.path.join(public_dir, "apple-touch-icon.png"), format="PNG", optimize=True)
+    print("Generated apple-touch-icon.png (180x180 RGB)")
+
+    # Favicon.ico: multi-resolution (16, 32, 48, 64)
+    ico_sizes = [(16, 16), (32, 32), (48, 48), (64, 64)]
+    ico_images = [master_img.resize(s, Image.Resampling.LANCZOS) for s in ico_sizes]
+    ico_path = os.path.join(public_dir, "favicon.ico")
+    ico_images[0].save(
+        ico_path,
+        format="ICO",
+        sizes=ico_sizes,
+        append_images=ico_images[1:]
+    )
+    print("Generated favicon.ico (multi-resolution 16, 32, 48, 64)")
+
+if __name__ == "__main__":
+    generate_brand_icons()
